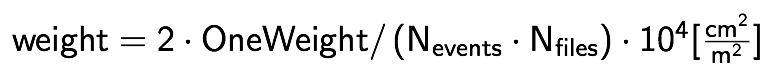
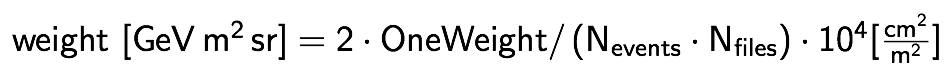
Finished docs for AeffServicePar

Changed region(s): [[0.0, 0.1842, 0.9935, 0.8421]]

diff --git a/pisa/aeff/doc/Aeff.md b/pisa/aeff/doc/Aeff.md
@@ -39,7 +39,13 @@ This function returns maps of events counts for each flavour and interaction typ
 So far, two effective area services are surported, one for __parametrized__ effective areas, the other one builds effective areas directly from MC events.
 
 ###AeffServiceMC
-This service takes the energy and cos(zenith) bins as well as a data file in HDF5 format in the constructor. I then reads the events weights for each flavour and interaction type from the datafile and creates histogram of the effective area. The structure of the datafile is
+
+```
+class AeffServiceMC:
+    def __init__(self,ebins,czbins,aeff_weight_file=None,**kwargs):
+````
+
+This service takes the energy and cos(zenith) bins as well as a data file (`aeff_weight_file`) in HDF5 format in the constructor. I then reads the events weights for each flavour and interaction type from the datafile and creates histogram of the effective area. The structure of the datafile is
 ```
 flavour / int_type / value
 ```
@@ -61,9 +67,32 @@ where
   * `N_files` is the total number of data files included
   * the factor 2 reflects that in IceCube simulation both `nu` and `nubar` are simulated in the same runs, while we have seperate effective areas for each of them.
 
-The units of the resulting weights are in [GeV m^2 sr]. To obtain the effective area, these weights are histrogrammed in the given binning as a function of cos(zenith) and energy. To obtain the effective area in each, it is multiplied with the covered solid angle and energy range. 
+To obtain the effective area, these weights are histrogrammed in the given binning as a function of cos(zenith) and energy. To obtain the effective area in each bin _i_, the sum of weights in this bin is divided with the solid angle and energy range covered by the bin. 
 
-![Aeff](aeff.png)
+![AeffMC](aeffmc.png)
 
-and will be in units of [GeV m^2 sr] (convert OneWeight unit of cm^2 to m^2)
-* `AeffServicePar`
+### AeffServicePar
+```
+class AeffServicePar:
+    def __init__(self,ebins,czbins,aeff_egy_par,aeff_coszen_par,**kwargs):
+```
+This service uses pre-made datatables to describe the energy dependence of the effective area, while the cos(zenith) dependence is described as a functional form (i.e parametrization).
+* **Energy dependence**:  `aeff_egy_par` is a dictionary that lists datatables for the 1D energy dependence for each flavour for charged-current interactions  (`nue`,`nue_bar`,`numu`,`numu_bar`,`nutau`,`nutau_bar`), while neutral-current interactions are modelled as flavour-independent (`NC`,`NC_bar`). A simple text file is used for the datatables with the format
+
+    ```
+    energy aeff
+    ```
+
+   where `energy` is in GeV and `aeff` is in m^2. These files are parsed using `numpy.loadtxt`, and interpolated using 1D linear interpolation with all ranges outside the interpolation range set to 0. 
+   
+* **cos(zenith) dependence**: `aeff_coszen_par` is a dictionary with one entry per flavour for charged-current and one for neutral-current events (`nue`,`numu`,`nutau`,`NC`). Each entry holds a function definition (typically a `lambda` function) that takes the cos(zenith) angle and returns a modification function for the energy-dependent functions.
+    ```
+    { 'nue' : 'lambda cz: 0.882 * np.abs(cz)**0.508 + 0.415', ...}
+    ```
+    The function strings are evaluated using `eval` to return python function objects.
+
+The total effective area is calculated for each bin _i_ by evaluating the both parametrization functions at the bin centers in energy and cos(zenith) and multiplying them, where the cos(zenith) functions are also normalized to unity over the energy range. 
+
+![AeffPar](aeffpar.png)
+
+
